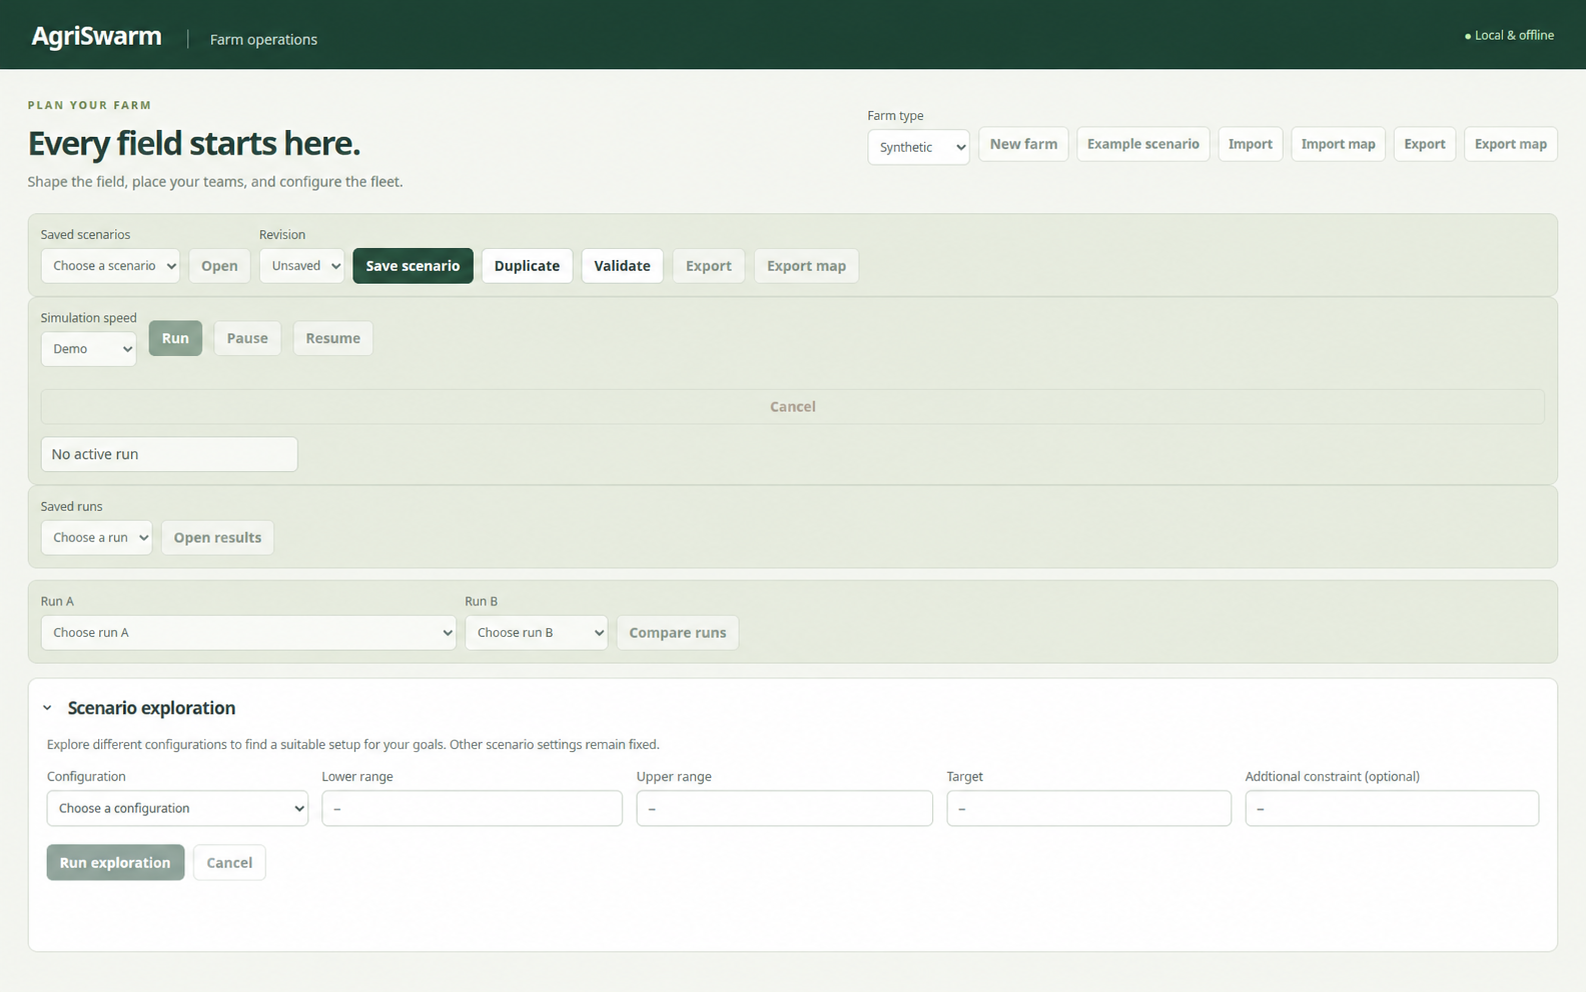
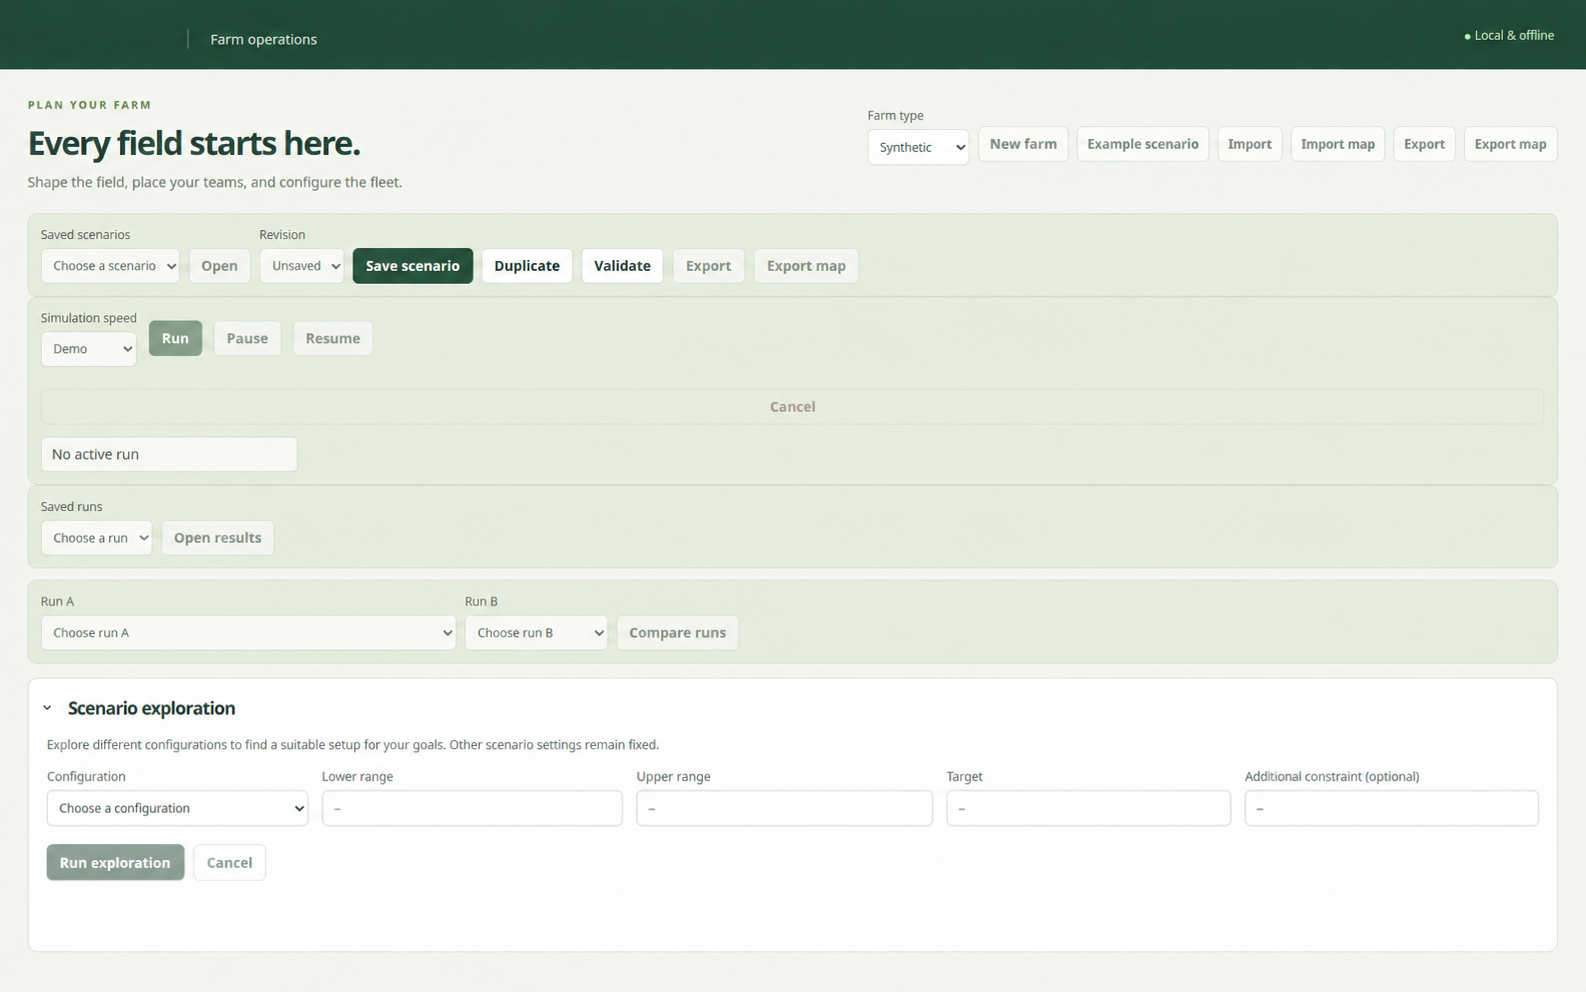
Remove AgriSwarm branding from portfolio images

diff --git a/index.html b/index.html
@@ -515,7 +515,7 @@
               <section class="editorial-pair editorial-pair-media-right">
               <figure class="editorial-media editorial-media-right editorial-media-lead">
                 <button class="gallery-item project-shot" type="button" data-full="Projects_content/Agriculture/portfolio-screenshots/05-live-simulation.png" aria-label="View the Agricultural Drone Fleet live simulation dashboard larger">
-                  <img src="Projects_content/Agriculture/portfolio-screenshots/05-live-simulation.png" alt="Live agricultural operations simulation dashboard" width="1513" height="1040" loading="lazy">
+                  <img src="Projects_content/Agriculture/portfolio-screenshots/05-live-simulation.png" alt="Live agricultural operations simulation dashboard" width="1512" height="1040" loading="lazy">
                 </button>
                 <figcaption><strong>Live operations</strong><span>In motion.</span></figcaption>
               </figure>
